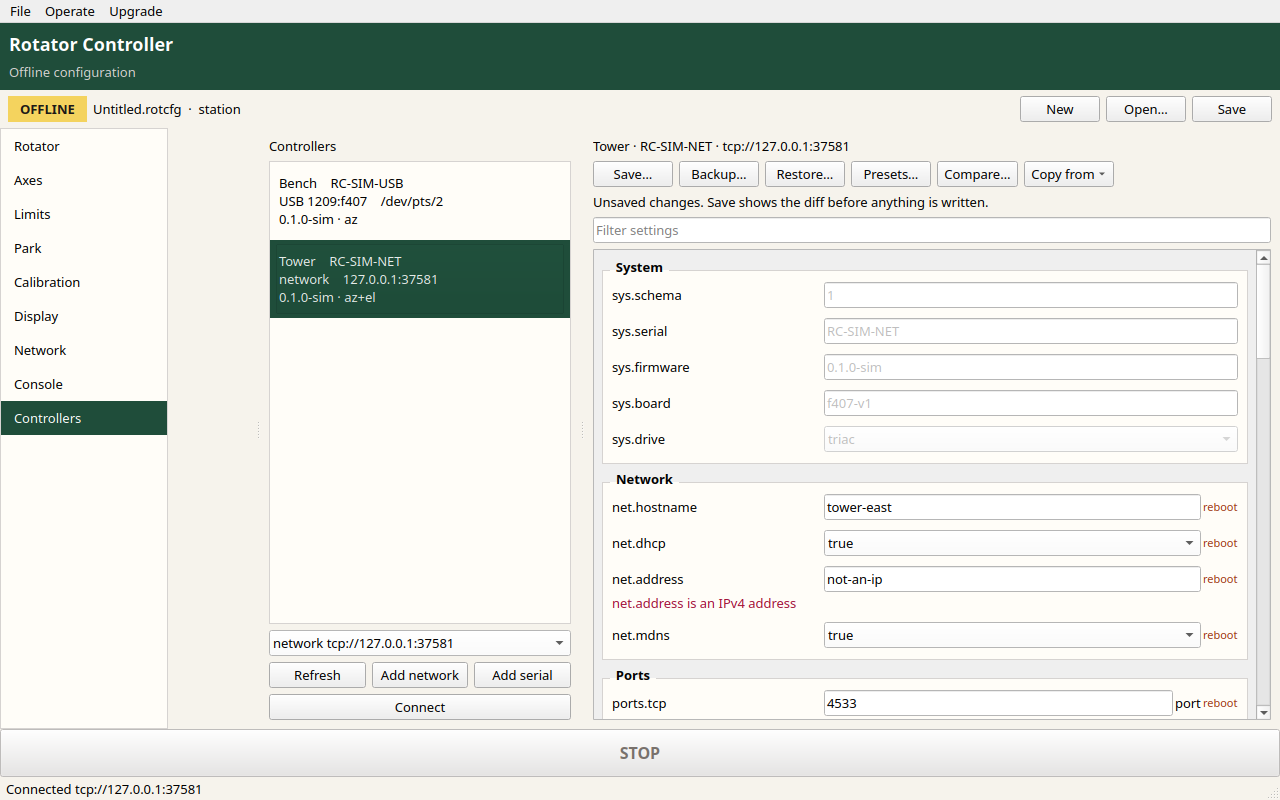
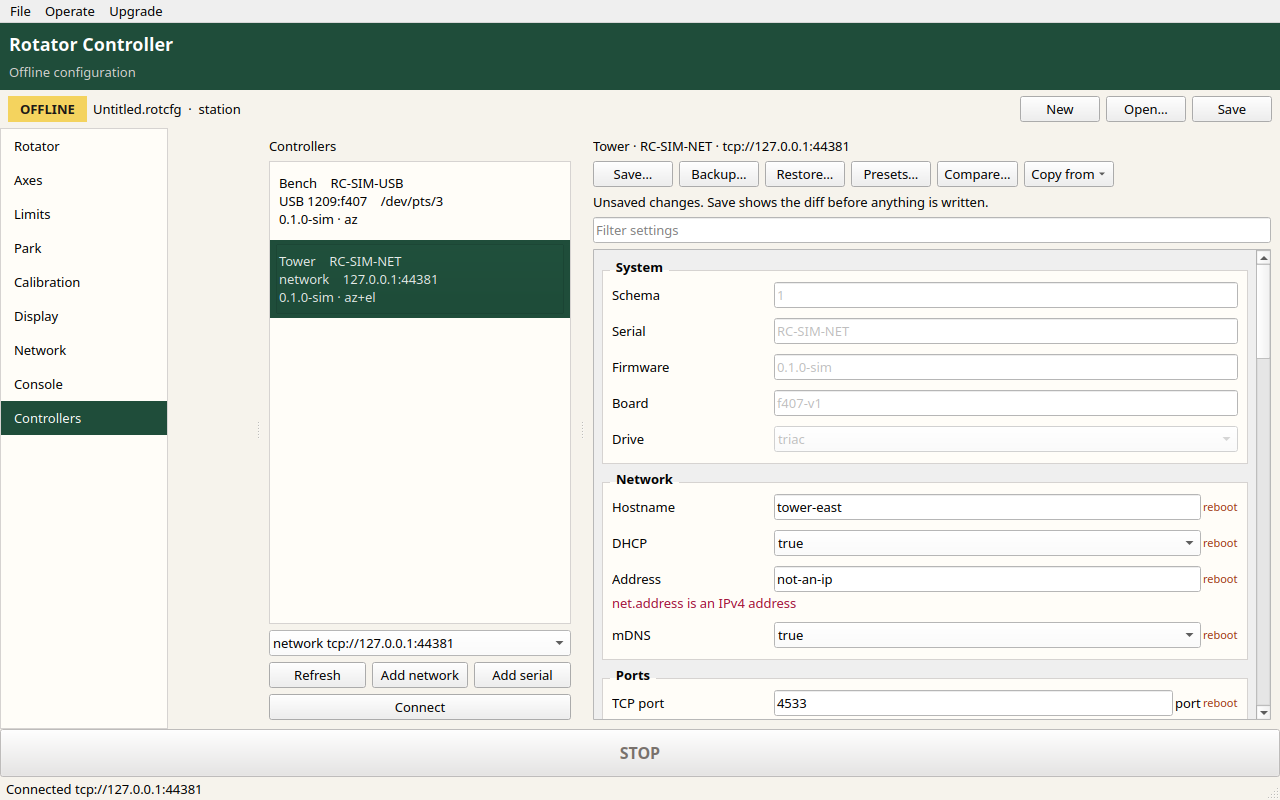
Fix the rotator detail pane and label preference fields.
Replacing the detail body stops stale preset widgets from stacking. Forms show schema labels such as Travel min, with the key in the tooltip and on Advanced rows. An azimuth-only rotator hides elevation.

diff --git a/software/gui/rotatorctl-gui/src/rotatorctl_gui/form.py b/software/gui/rotatorctl-gui/src/rotatorctl_gui/form.py
@@ -50,6 +50,9 @@ class SettingsForm(QWidget):
         self._groups: dict[str, QGroupBox] = {}
         self._advanced_groups: dict[str, QGroupBox] = {}
         self._advanced_body: QWidget | None = None
+        self._show_az = True
+        self._show_el = True
+        self._filter = ""
         layout = QVBoxLayout(self)
         layout.setContentsMargins(8, 8, 8, 8)
         shown = {spec.name: values.get(spec.name, spec.default) for spec in schema.settings}
@@ -153,24 +156,41 @@ class SettingsForm(QWidget):
         label = self._errors.get(name)
         return "" if label is None else label.text()
 
+    def set_axes(self, *, azimuth: bool, elevation: bool) -> None:
+        """Hide an axis the current rotator does not have."""
+        self._show_az = azimuth
+        self._show_el = elevation
+        self.set_filter(self._filter)
+
     def set_filter(self, text: str) -> None:
+        self._filter = text
         query = text.strip().lower()
         for spec in self.schema.settings:
-            hay = f"{spec.name} {spec.help}".lower()
-            self._rows[spec.name].setVisible(not query or query in hay)
+            hay = f"{spec.name} {spec.label} {spec.help}".lower()
+            allowed = self._axis_allowed(spec.name)
+            self._rows[spec.name].setVisible(allowed and (not query or query in hay))
         self._hide_empty(self._groups, False)
         self._hide_empty(self._advanced_groups, True)
         if self._advanced_body is not None and query:
-            matched = any(spec.advanced and self._rows[spec.name].isVisible() for spec in self.schema.settings)
+            matched = any(
+                spec.advanced and not self._rows[spec.name].isHidden() for spec in self.schema.settings
+            )
             if matched:
                 toggle = self.findChild(QPushButton, "advancedToggle")
                 if toggle is not None:
                     toggle.setChecked(True)
 
+    def _axis_allowed(self, name: str) -> bool:
+        if name.startswith("az.") or name.endswith(".az"):
+            return self._show_az
+        if name.startswith("el.") or name.endswith(".el"):
+            return self._show_el
+        return True
+
     def _hide_empty(self, groups: dict[str, QGroupBox], advanced: bool) -> None:
         for prefix, group in groups.items():
             visible = any(
-                self._rows[spec.name].isVisible()
+                not self._rows[spec.name].isHidden()
                 for spec in self.schema.settings
                 if spec.advanced is advanced and spec.name.split(".", 1)[0] == prefix
             )
@@ -182,12 +202,22 @@ class SettingsForm(QWidget):
         outer.setContentsMargins(0, 2, 0, 2)
         outer.setSpacing(2)
         line = QHBoxLayout()
-        name = QLabel(spec.name)
-        name.setMinimumWidth(210)
-        name.setToolTip(spec.help)
+        title = spec.label or spec.name
+        name = QLabel(title)
+        name.setObjectName(f"label-{spec.name}")
+        name.setMinimumWidth(160)
+        tip = spec.name if not spec.help else f"{spec.name}\n{spec.help}"
+        name.setToolTip(tip)
         editor = self._editor(spec, value)
+        editor.setToolTip(tip)
         self._editors[spec.name] = editor
         line.addWidget(name)
+        if spec.advanced:
+            key = QLabel(spec.name)
+            key.setObjectName("fieldKey")
+            key.setStyleSheet("color: #78716c;")
+            key.setToolTip(tip)
+            line.addWidget(key)
         line.addWidget(editor, 1)
         if spec.unit:
             line.addWidget(QLabel(spec.unit))

diff --git a/software/gui/rotatorctl-gui/src/rotatorctl_gui/rotator_browser.py b/software/gui/rotatorctl-gui/src/rotatorctl_gui/rotator_browser.py
@@ -30,6 +30,7 @@ from rotatorctl.presets import (
     unverified_labels,
     unverified_setting_names,
 )
+from rotatorctl.schema import human_label
 
 _SUPPORT = {
     "v1": "Ready for the AC board",
@@ -180,11 +181,19 @@ class RotatorBrowser(QWidget):
             self._show_current()
 
     def _show_current(self) -> None:
-        while self.detail_layout.count():
-            item = self.detail_layout.takeAt(0)
-            widget = item.widget()
-            if widget is not None:
-                widget.deleteLater()
+        # Replace the whole pane. Clearing layout items left nested layouts
+        # and their widgets parented to the old body, so each refresh painted
+        # another copy on top of the last one.
+        old = self.detail.takeWidget()
+        body = QWidget()
+        layout = QVBoxLayout(body)
+        layout.setContentsMargins(12, 8, 12, 12)
+        self.detail_body = body
+        self.detail_layout = layout
+        self.detail.setWidget(body)
+        if old is not None:
+            old.hide()
+            old.deleteLater()
         preset_id = self.current_id()
         preset = self._by_id.get(preset_id)
         if preset is None:
@@ -286,7 +295,8 @@ class RotatorBrowser(QWidget):
             shown = value if custom is None or self._active_preset != preset.id else f"{value}  →  {custom}"
             if name in flagged:
                 shown += "  [?]"
-            label = QLabel(f"{name} = {shown}")
+            label = QLabel(f"{human_label(name)} = {shown}")
+            label.setToolTip(name)
             label.setTextInteractionFlags(Qt.TextInteractionFlag.TextSelectableByMouse)
             grid.addWidget(label, index // 2, index % 2)
         layout.addLayout(grid)
@@ -307,7 +317,8 @@ class RotatorBrowser(QWidget):
             for name, value in relevant.items():
                 row = QHBoxLayout()
                 preset_value = settings_from_preset(preset).get(name, "—")
-                label = QLabel(f"{name}:  preset {preset_value}  →  custom {value}")
+                label = QLabel(f"{human_label(name)}:  preset {preset_value}  →  custom {value}")
+                label.setToolTip(name)
                 label.setObjectName("overrideRow")
                 clear = QPushButton("Reset")
                 clear.clicked.connect(lambda checked=False, key=name: self.override_cleared.emit(key))
@@ -319,7 +330,8 @@ class RotatorBrowser(QWidget):
             self._override_name = QComboBox()
             self._override_name.setObjectName("overrideName")
             names = list(settings_from_preset(preset)) or ["az.overlap_deg"]
-            self._override_name.addItems(names)
+            for setting_name in names:
+                self._override_name.addItem(human_label(setting_name), setting_name)
             self._override_value = QLineEdit()
             self._override_value.setObjectName("overrideValue")
             self._override_value.setPlaceholderText("custom value")
@@ -333,7 +345,9 @@ class RotatorBrowser(QWidget):
         return wrap
 
     def _emit_override(self) -> None:
-        name = self._override_name.currentText()
+        name = self._override_name.currentData()
+        if not name:
+            name = self._override_name.currentText()
         value = self._override_value.text().strip()
         if name and value:
-            self.override_set.emit(name, value)
+            self.override_set.emit(str(name), value)

diff --git a/software/gui/tests/test_offline.py b/software/gui/tests/test_offline.py
@@ -5,9 +5,10 @@ from __future__ import annotations
 
 import json
 
-from PySide6.QtWidgets import QLabel, QListWidget, QPushButton, QWidget
+from PySide6.QtWidgets import QGroupBox, QLabel, QListWidget, QPushButton, QWidget
 
 from rotatorctl.presets import settings_from_preset
+from rotatorctl.schema import default_schema, human_label
 from rotatorctl.rotcfg import dumps, loads, new_config
 from rotatorctl_gui.main_window import MainWindow
 
@@ -89,6 +90,50 @@ def test_preference_pages_list_the_review_fields(qtbot, presets) -> None:
     nav = window.findChild(QListWidget, "pageNav")
     assert nav is not None
     assert nav.item(nav.count() - 1).text() == "Controllers"
+
+
+def test_detail_pane_keeps_one_copy(qtbot, presets) -> None:
+    window = MainWindow(presets=presets)
+    qtbot.addWidget(window)
+    window.use_preset("yaesu-g-450a")
+    window.set_custom_override("az.overlap_deg", "100")
+    window.show()
+    qtbot.wait(10)
+    body = window.browser.detail.widget()
+    texts = [label.text() for label in body.findChildren(QLabel)]
+    assert texts.count("Custom overrides") == 1
+    assert texts.count("Settings this preset writes") == 1
+    assert len(body.findChildren(QPushButton, "usePreset")) == 1
+    assert any(text.startswith("Overlap:") and "100" in text for text in texts)
+
+
+def test_az_only_rotor_hides_elevation_and_uses_labels(qtbot, presets) -> None:
+    window = MainWindow(presets=presets)
+    qtbot.addWidget(window)
+    window.use_preset("yaesu-g-450a")
+    window.show_page("limits")
+    form = window.page_forms["limits"]
+    elevation = form.findChild(QGroupBox, "group-el")
+    azimuth = form.findChild(QGroupBox, "group-az")
+    assert elevation is not None and elevation.isHidden()
+    assert azimuth is not None and not azimuth.isHidden()
+    visible = [
+        label
+        for label in form.findChildren(QLabel)
+        if label.text() == "Travel min" and "az.travel_min_deg" in label.toolTip()
+    ]
+    assert len(visible) == 1
+    assert form._rows["az.travel_min_deg"].isHidden() is False
+    assert form._rows["el.travel_min_deg"].isHidden() is True
+    assert any(label.text() == "az.creep_deg" and label.objectName() == "fieldKey" for label in form.findChildren(QLabel))
+    window.use_preset("yaesu-g-5500")
+    assert not form.findChild(QGroupBox, "group-el").isHidden()
+
+
+def test_human_label_matches_the_travel_example() -> None:
+    assert human_label("az.travel_min_deg") == "Travel min"
+    assert default_schema().get("az.travel_min_deg").label == "Travel min"
+    assert human_label("az.cal.cw_end") == "CW end"
 
 
 def test_catalog_count_matches_the_file(presets) -> None:

diff --git a/software/gui/rotatorctl-gui/src/rotatorctl_gui/main_window.py b/software/gui/rotatorctl-gui/src/rotatorctl_gui/main_window.py
@@ -42,7 +42,7 @@ from rotatorctl.discovery import (
 from rotatorctl.document import Change, SettingsDocument, SettingsError, format_value, parse_ini_lines
 from rotatorctl.operate import stop_line
 from rotatorctl.phases import OPERATE_MILESTONES, UPGRADE_MILESTONES
-from rotatorctl.presets import Preset, can_apply, load_presets, settings_from_preset
+from rotatorctl.presets import Preset, axis_prefixes, can_apply, load_presets, settings_from_preset
 from rotatorctl.rotcfg import RotConfig, dumps, loads, new_config, push_lines
 from rotatorctl.protocol import CommandError, ConsoleClient
 from rotatorctl.schema import Schema
@@ -590,8 +590,10 @@ class MainWindow(QMainWindow):
         self._syncing = True
         try:
             snapshot = self.config.document.snapshot()
+            azimuth, elevation = self._visible_axes()
             for form in self.page_forms.values():
                 form.load(snapshot)
+                form.set_axes(azimuth=azimuth, elevation=elevation)
             self.browser.set_values(snapshot)
             self.browser.set_overrides(self.overrides, self.preset_id)
             if self.preset_id:
@@ -605,6 +607,13 @@ class MainWindow(QMainWindow):
         file_name = self.rotcfg_path.name if self.rotcfg_path else "Untitled.rotcfg"
         self.file_label.setText(f"{file_name}  ·  {name}")
         self._mark_file_dirty()
+
+    def _visible_axes(self) -> tuple[bool, bool]:
+        preset = next((item for item in self.presets if item.id == self.preset_id), None)
+        if preset is None:
+            return True, True
+        prefixes = axis_prefixes(preset.axes)
+        return "az" in prefixes, "el" in prefixes
 
     def _rebuild_pages(self) -> None:
         """Pages keep their widgets; values are reloaded from the new document."""
@@ -952,6 +961,10 @@ class MainWindow(QMainWindow):
 
     def _show_form(self, schema: Schema, values: dict[str, str]) -> None:
         self.form = SettingsForm(schema, values)
+        self.form.set_axes(
+            azimuth=values.get("az.present", "true") == "true",
+            elevation=values.get("el.present", "false") == "true",
+        )
         self.form.changed.connect(self._on_form_changed)
         self.scroll.setWidget(self.form)
         if self.search.text():

diff --git a/software/gui/rotatorctl/src/rotatorctl/schema.py b/software/gui/rotatorctl/src/rotatorctl/schema.py
@@ -8,6 +8,7 @@ is a schema change, not a GUI change.
 
 from __future__ import annotations
 
+import re
 from enum import Enum
 
 from pydantic import BaseModel, Field
@@ -30,6 +31,7 @@ class SettingSpec(BaseModel):
     enum: list[str] = Field(default_factory=list)
     default: str
     help: str = ""
+    label: str = ""
     reboot: bool = False
     readonly: bool = False
     advanced: bool = False
@@ -60,7 +62,56 @@ _LEVELS = ["error", "warn", "info", "debug"]
 _DRIVES = ["triac", "relay", "dc_hbridge"]
 
 
+_LABELS = {
+    "net.dhcp": "DHCP",
+    "net.mdns": "mDNS",
+    "ports.tcp": "TCP port",
+    "ports.gs232_query": "GS-232 query",
+    "ports.rotctld": "rotctld port",
+    "ports.easycom": "Easycom port",
+    "ports.dcu1": "DCU-1 port",
+    "safety.stall_a": "Stall current",
+    "safety.stall_deg": "Stall window",
+    "az.pulse_deg": "Pulse size",
+    "el.pulse_deg": "Pulse size",
+    "ui.cardinal_labels": "Cardinal labels",
+}
+_WORD = {
+    "cw": "CW",
+    "ccw": "CCW",
+    "adc": "ADC",
+    "ac": "AC",
+    "dc": "DC",
+}
+_PRESET_MEMORY = re.compile(r"^preset\.(\d+)\.(az|el)$")
+
+
+def human_label(name: str) -> str:
+    """Short label for a setting. The dotted key stays available beside it."""
+    special = _LABELS.get(name)
+    if special:
+        return special
+    memory = _PRESET_MEMORY.match(name)
+    if memory:
+        axis = "azimuth" if memory.group(2) == "az" else "elevation"
+        return f"Memory {memory.group(1)} {axis}"
+    rest = name.split(".", 1)[-1]
+    if rest.startswith("cal."):
+        rest = rest[4:]
+    for suffix in ("_deg", "_ms", "_min", "_s", "_a"):
+        if rest.endswith(suffix):
+            rest = rest[: -len(suffix)]
+            break
+    words = [_WORD.get(word, word) for word in rest.split("_") if word]
+    if not words:
+        return name
+    head = words[0] if words[0] in _WORD.values() else words[0].capitalize()
+    return " ".join([head, *words[1:]])
+
+
 def _spec(name: str, kind: SettingType, default: str, **kwargs: object) -> SettingSpec:
+    if "label" not in kwargs:
+        kwargs["label"] = human_label(name)
     return SettingSpec(name=name, type=kind, default=default, **kwargs)  # type: ignore[arg-type]
 
 
